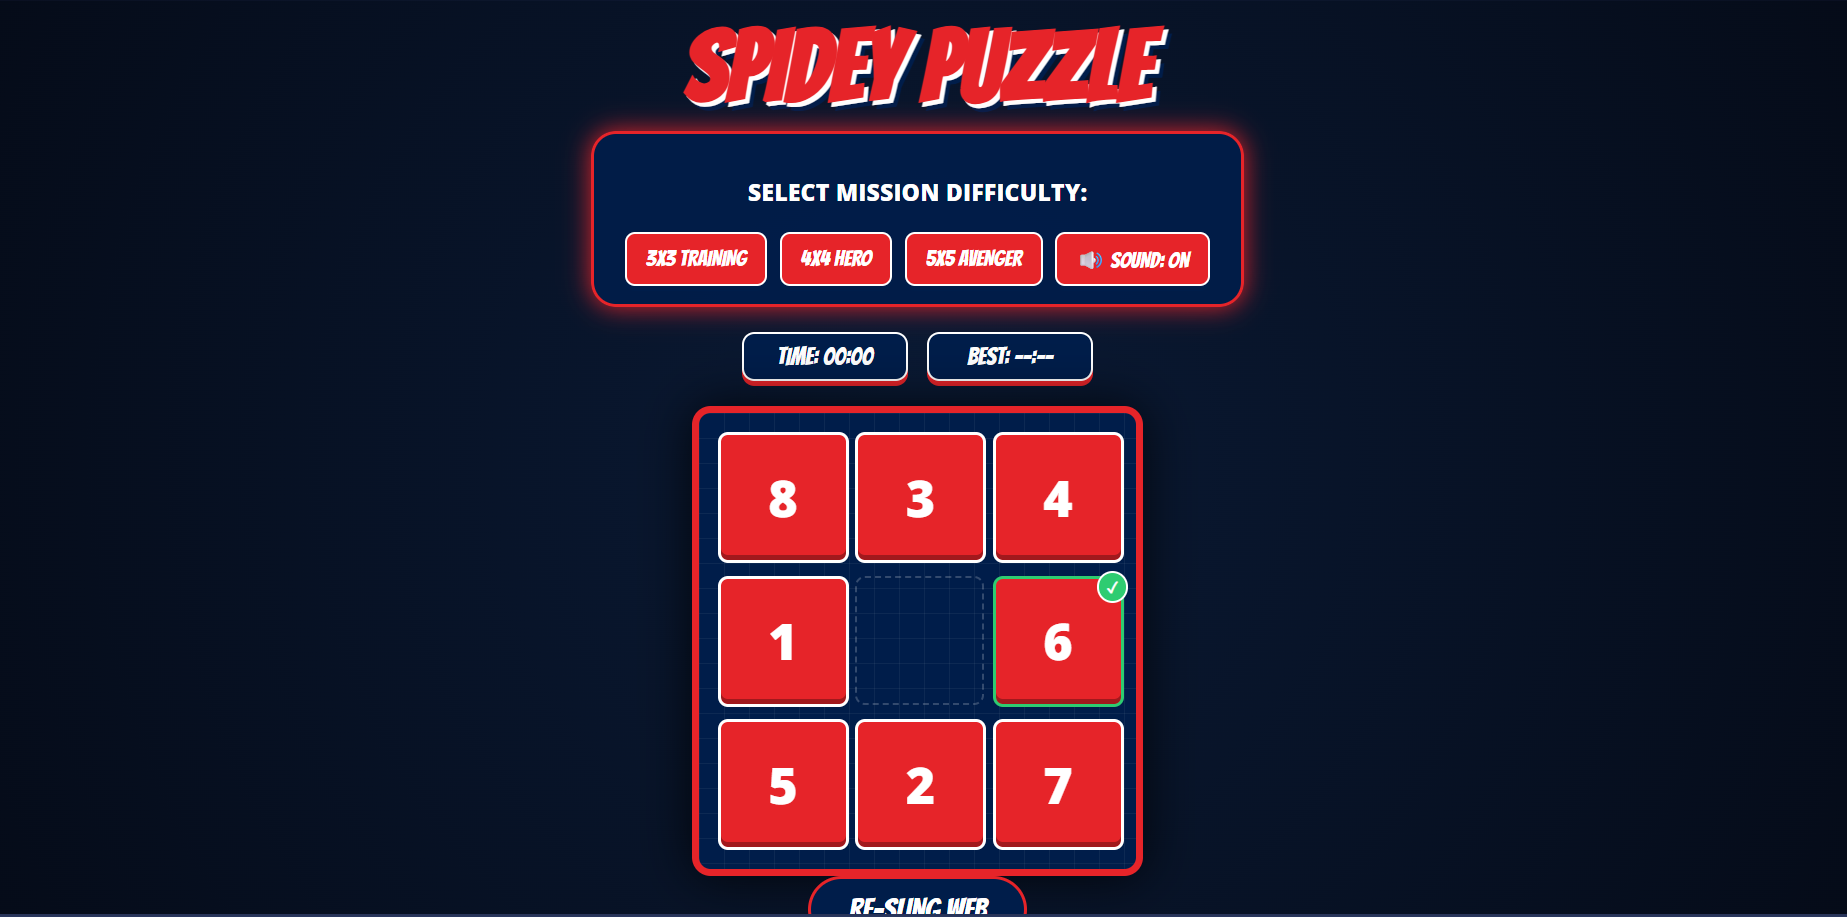
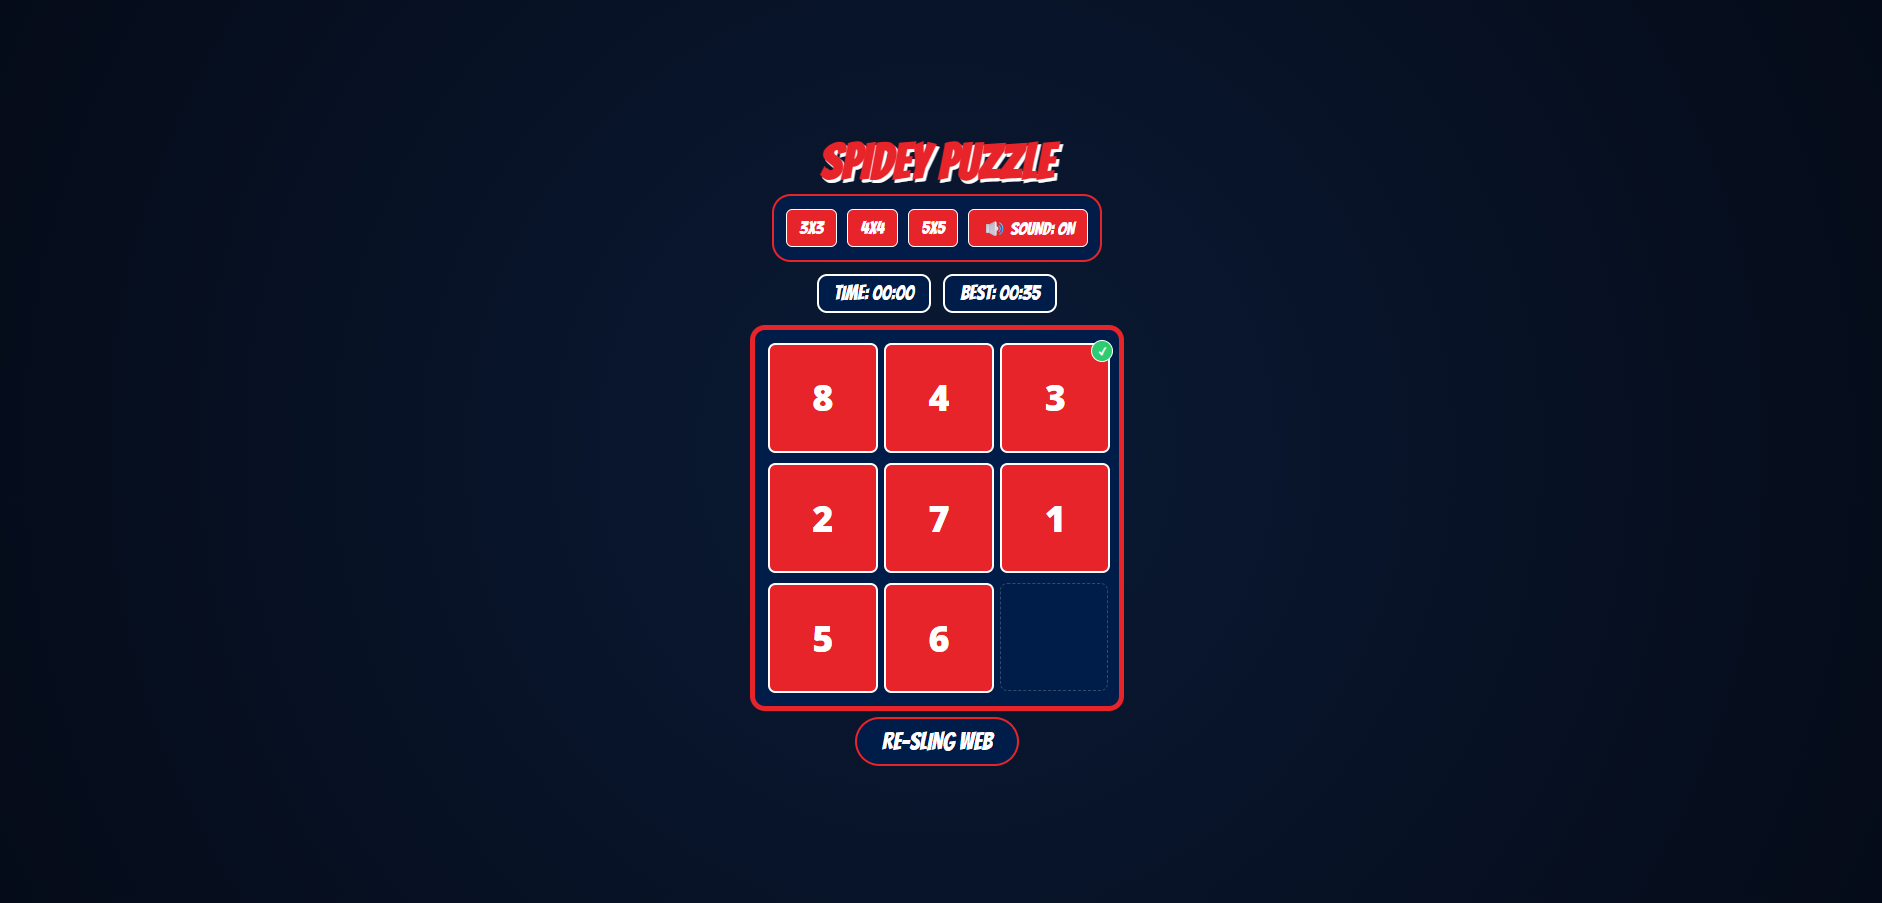
Updated code, and preview screemshot

Changed region(s): [[0.0, 0.031, 1.0, 1.0]]

diff --git a/style.css b/style.css
@@ -10,101 +10,72 @@
 
 body {
     background-color: var(--dark-bg);
-    /* Add your wallpaper path here later: background-image: url('wallpaper.jpg'); */
     background-image: radial-gradient(circle, #0a1a35 0%, #050b18 100%);
-    background-size: cover;
-    background-attachment: fixed;
     color: white;
     font-family: 'Open Sans', sans-serif;
     display: flex;
     flex-direction: column;
     align-items: center;
     justify-content: center;
-    min-height: 100vh;
+    height: 100vh; /* Fixed height to prevent scrolling */
     margin: 0;
-    overflow-x: hidden;
+    overflow: hidden;
 }
 
 h1 {
     font-family: 'Bangers', cursive;
-    font-size: clamp(3rem, 8vw, 5rem);
+    font-size: 2.5rem; /* Smaller title */
     color: var(--spidey-red);
-    text-shadow: 3px 3px 0px var(--spidey-web), 6px 6px 0px var(--spidey-blue);
-    margin: 10px 0;
+    text-shadow: 2px 2px 0px var(--spidey-web);
+    margin: 5px 0;
 }
 
 .mission-control {
     background: rgba(0, 29, 74, 0.9);
-    padding: 15px 25px;
-    border: 3px solid var(--spidey-red);
-    border-radius: 20px;
-    margin-bottom: 20px;
-    box-shadow: 0 0 20px var(--spidey-red);
-    text-align: center;
+    padding: 10px;
+    border: 2px solid var(--spidey-red);
+    border-radius: 15px;
+    margin-bottom: 10px;
 }
 
 .button-group {
     display: flex;
-    gap: 10px;
-    flex-wrap: wrap;
-    justify-content: center;
+    gap: 8px;
 }
 
 .menu-btn {
     background: var(--spidey-red);
     color: white;
-    border: 2px solid var(--spidey-web);
-    padding: 8px 15px;
+    border: 1px solid white;
+    padding: 5px 10px;
     font-family: 'Bangers', cursive;
-    font-size: 1.1rem;
+    font-size: 0.9rem;
     cursor: pointer;
-    border-radius: 8px;
-    transition: 0.2s;
-    box-shadow: 0 4px 0 var(--spidey-blue);
+    border-radius: 5px;
 }
 
-.menu-btn:hover {
-    background: var(--spidey-blue);
-    transform: scale(1.05);
-}
+#mute-btn.is-muted { background: #444; }
 
-#mute-btn.is-muted {
-    background: #444;
-    border-color: #777;
-    box-shadow: 0 4px 0 #111;
-}
-
-.game-info {
-    display: flex;
-    gap: 15px;
-    margin-bottom: 20px;
-}
+.game-info { display: flex; gap: 10px; margin-bottom: 10px; }
 
 .info-box {
     background: var(--spidey-blue);
-    padding: 8px 15px;
-    border: 2px solid var(--spidey-web);
-    border-radius: 10px;
+    padding: 5px 12px;
+    border: 2px solid white;
+    border-radius: 8px;
     font-family: 'Bangers', cursive;
-    font-size: 1.2rem;
-    min-width: 100px;
-    text-align: center;
-    box-shadow: 0 4px 0 var(--spidey-red);
+    font-size: 1rem;
 }
 
 .board {
     display: grid;
-    gap: 10px;
-    padding: 15px;
+    gap: 8px;
+    padding: 10px;
     background-color: var(--spidey-blue);
-    /* Subtle web grid pattern */
-    background-image: 
-        linear-gradient(rgba(255,255,255,0.05) 1px, transparent 1px),
-        linear-gradient(90deg, rgba(255,255,255,0.05) 1px, transparent 1px);
-    background-size: 20px 20px;
-    border: 6px solid var(--spidey-red);
-    border-radius: 15px;
-    box-shadow: 0 0 40px rgba(0,0,0,0.8);
+    border: 4px solid var(--spidey-red);
+    border-radius: 12px;
+    position: relative;
+    overflow: hidden;
 }
 
 .tile {
@@ -114,56 +85,56 @@ h1 {
     justify-content: center;
     align-items: center;
     font-weight: 800;
-    border-radius: 8px;
+    border-radius: 6px;
     cursor: pointer;
     position: relative;
-    border: 3px solid var(--spidey-web);
-    box-shadow: inset 0 -4px 0px rgba(0,0,0,0.3);
-    transition: transform 0.1s;
-    user-select: none;
+    border: 2px solid white;
 }
 
-.tile:hover:not(.empty) {
-    filter: brightness(1.15);
-}
-
-.tile.empty {
-    background: transparent;
-    border: 2px dashed rgba(255,255,255,0.2);
-    box-shadow: none;
-}
+.tile.empty { background: transparent; border: 1px dashed rgba(255,255,255,0.2); }
 
 .tick {
     position: absolute;
-    top: -6px;
-    right: -6px;
+    top: -4px; right: -4px;
     background: var(--success-green);
-    color: white;
-    width: 22px;
-    height: 22px;
+    width: 16px; height: 16px;
     border-radius: 50%;
-    font-size: 0.75rem;
+    font-size: 0.5rem;
     display: flex;
     justify-content: center;
     align-items: center;
-    border: 2px solid white;
+    border: 1px solid white;
+}
+
+.web-overlay {
+    position: absolute;
+    top: 0; left: 0; width: 100%; height: 100%;
+    display: none;
+    justify-content: center;
+    align-items: center;
+    z-index: 10;
+    pointer-events: none;
+    background-image: repeating-radial-gradient(circle, transparent, transparent 35px, #ffffff 37px);
+    animation: web-shoot 0.4s ease-out forwards;
+}
+
+.web-content h2 { font-family: 'Bangers', cursive; font-size: 3rem; color: var(--spidey-red); text-shadow: 2px 2px white; }
+
+@keyframes web-shoot {
+    0% { transform: scale(0); opacity: 0; }
+    100% { transform: scale(1); opacity: 1; }
 }
 
 #reset-btn {
     background: var(--spidey-blue);
     color: white;
-    padding: 12px 30px;
-    border: 3px solid var(--spidey-red);
+    padding: 8px 20px;
+    border: 2px solid var(--spidey-red);
     border-radius: 50px;
     font-family: 'Bangers', cursive;
-    font-size: 1.5rem;
+    font-size: 1.2rem;
     cursor: pointer;
-    box-shadow: 0 4px 0 var(--dark-bg);
+    margin-top: 5px;
 }
 
-#message {
-    margin-top: 15px;
-    font-family: 'Bangers', cursive;
-    font-size: 1.5rem;
-    color: var(--success-green);
-}
+#message { font-family: 'Bangers', cursive; color: var(--success-green); margin-top: 5px; }

diff --git a/script.js b/script.js
@@ -1,7 +1,7 @@
 const board = document.getElementById('game-board');
-const message = document.getElementById('message');
 const timerDisplay = document.getElementById('timer');
 const bestTimeDisplay = document.getElementById('best-time');
+const overlay = document.getElementById('web-overlay');
 const thwipSound = document.getElementById('thwip-sound');
 
 let size = 3;
@@ -25,24 +25,9 @@ function updateBestTimeDisplay() {
 
 function toggleMute() {
     isMuted = !isMuted;
-    const muteBtn = document.getElementById('mute-btn');
-    muteBtn.textContent = isMuted ? "🔇 SOUND: OFF" : "🔊 SOUND: ON";
-    muteBtn.classList.toggle('is-muted');
-}
-
-function startTimer() {
-    if (!timerStarted) {
-        timerStarted = true;
-        timerInterval = setInterval(() => {
-            seconds++;
-            timerDisplay.textContent = formatTime(seconds);
-        }, 1000);
-    }
-}
-
-function stopTimer() {
-    clearInterval(timerInterval);
-    timerStarted = false;
+    const btn = document.getElementById('mute-btn');
+    btn.textContent = isMuted ? "🔇 SOUND: OFF" : "🔊 SOUND: ON";
+    btn.classList.toggle('is-muted');
 }
 
 function changeLevel(newSize) {
@@ -51,18 +36,18 @@ function changeLevel(newSize) {
 }
 
 function drawBoard() {
-    board.innerHTML = '';
-    let tileSize = size === 3 ? '100px' : size === 4 ? '80px' : '65px';
-    let fontSize = size === 5 ? '1.5rem' : '2.5rem';
+    const currentTiles = board.querySelectorAll('.tile');
+    currentTiles.forEach(t => t.remove());
 
+    // Adjusted sizes for laptop screens
+    let tileSize = size === 3 ? '85px' : size === 4 ? '65px' : '50px';
     board.style.gridTemplateColumns = `repeat(${size}, ${tileSize})`;
 
     tiles.forEach((tile, index) => {
         const tileDiv = document.createElement('div');
         tileDiv.classList.add('tile');
-        tileDiv.style.width = tileSize;
-        tileDiv.style.height = tileSize;
-        tileDiv.style.fontSize = fontSize;
+        tileDiv.style.width = tileDiv.style.height = tileSize;
+        tileDiv.style.fontSize = size > 3 ? '1.2rem' : '1.8rem';
         
         if (tile === null) {
             tileDiv.classList.add('empty');
@@ -73,7 +58,6 @@ function drawBoard() {
                 tick.classList.add('tick');
                 tick.innerHTML = '✓';
                 tileDiv.appendChild(tick);
-                tileDiv.style.borderColor = "var(--success-green)";
             }
             tileDiv.addEventListener('click', () => moveTile(index));
         }
@@ -83,17 +67,15 @@ function drawBoard() {
 
 function moveTile(index) {
     const emptyIndex = tiles.indexOf(null);
-    const row = Math.floor(index / size);
-    const col = index % size;
-    const emptyRow = Math.floor(emptyIndex / size);
-    const emptyCol = emptyIndex % size;
+    const row = Math.floor(index / size), col = index % size;
+    const eRow = Math.floor(emptyIndex / size), eCol = emptyIndex % size;
 
-    if (Math.abs(row - emptyRow) + Math.abs(col - emptyCol) === 1) {
-        if (!isMuted) {
-            thwipSound.currentTime = 0;
-            thwipSound.play();
+    if (Math.abs(row - eRow) + Math.abs(col - eCol) === 1) {
+        if (!isMuted) { thwipSound.currentTime = 0; thwipSound.play(); }
+        if (!timerStarted) {
+            timerStarted = true;
+            timerInterval = setInterval(() => { seconds++; timerDisplay.textContent = formatTime(seconds); }, 1000);
         }
-        if (!timerStarted) startTimer();
         [tiles[index], tiles[emptyIndex]] = [tiles[emptyIndex], tiles[index]];
         moves++;
         drawBoard();
@@ -102,18 +84,17 @@ function moveTile(index) {
 }
 
 function shuffleGame() {
-    stopTimer();
-    seconds = 0;
-    moves = 0;
+    clearInterval(timerInterval);
+    timerStarted = false;
+    seconds = moves = 0;
     timerDisplay.textContent = "00:00";
-    message.textContent = "";
+    overlay.style.display = 'none';
     updateBestTimeDisplay();
     
     const total = size * size;
     tiles = Array.from({length: total - 1}, (_, i) => i + 1);
     tiles.push(null);
     
-    // Shuffle logic to ensure solvability
     for (let i = 0; i < size * 100; i++) {
         const emptyIndex = tiles.indexOf(null);
         const neighbors = [];
@@ -128,16 +109,13 @@ function shuffleGame() {
 }
 
 function checkWin() {
-    const total = size * size;
-    const isWin = tiles.every((t, i) => (i === total - 1 ? t === null : t === i + 1));
-    
+    const isWin = tiles.every((t, i) => (i === tiles.length - 1 ? t === null : t === i + 1));
     if (isWin && moves > 0) {
-        stopTimer();
-        message.innerHTML = `THWIP! MISSION COMPLETE!`;
-        const currentBest = localStorage.getItem(`spidey-best-${size}`);
-        if (!currentBest || seconds < parseInt(currentBest)) {
+        clearInterval(timerInterval);
+        overlay.style.display = 'flex';
+        const best = localStorage.getItem(`spidey-best-${size}`);
+        if (!best || seconds < parseInt(best)) {
             localStorage.setItem(`spidey-best-${size}`, seconds);
-            message.innerHTML += `<br><span style="color:white; font-size:1rem">NEW PERSONAL BEST!</span>`;
             updateBestTimeDisplay();
         }
     }

diff --git a/index.html b/index.html
@@ -3,7 +3,7 @@
 <head>
     <meta charset="UTF-8">
     <meta name="viewport" content="width=device-width, initial-scale=1.0">
-    <title>Spidey Puzzle: Web-Slinger Edition</title>
+    <title>Spidey Puzzle | Web-Slinger Edition</title>
     <link rel="stylesheet" href="style.css">
 </head>
 <body>
@@ -11,11 +11,10 @@
     <h1>SPIDEY PUZZLE</h1>
     
     <div class="mission-control">
-        <h3>SELECT MISSION DIFFICULTY:</h3>
         <div class="button-group">
-            <button class="menu-btn" onclick="changeLevel(3)">3x3 TRAINING</button>
-            <button class="menu-btn" onclick="changeLevel(4)">4x4 HERO</button>
-            <button class="menu-btn" onclick="changeLevel(5)">5x5 AVENGER</button>
+            <button class="menu-btn" onclick="changeLevel(3)">3x3</button>
+            <button class="menu-btn" onclick="changeLevel(4)">4x4</button>
+            <button class="menu-btn" onclick="changeLevel(5)">5x5</button>
             <button id="mute-btn" class="menu-btn" onclick="toggleMute()">🔊 SOUND: ON</button>
         </div>
     </div>
@@ -25,7 +24,13 @@
         <div class="info-box">BEST: <span id="best-time">--:--</span></div>
     </div>
 
-    <div id="game-board" class="board"></div>
+    <div id="game-board" class="board">
+        <div id="web-overlay" class="web-overlay">
+            <div class="web-content">
+                <h2>THWIP!</h2>
+            </div>
+        </div>
+    </div>
     
     <div class="controls">
         <button id="reset-btn" onclick="shuffleGame()">RE-SLING WEB</button>
